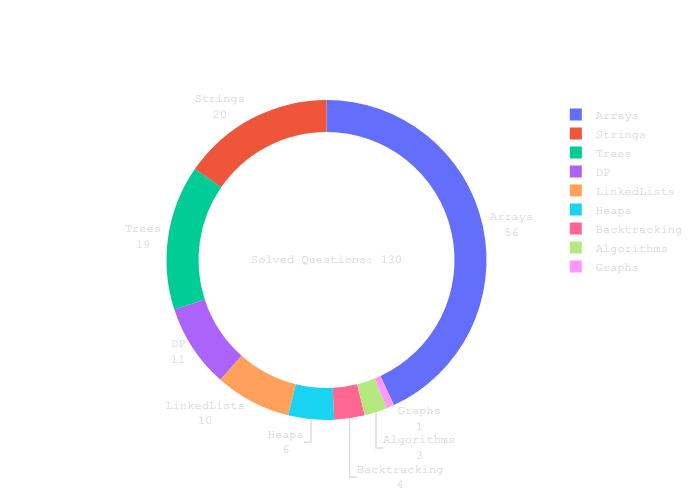
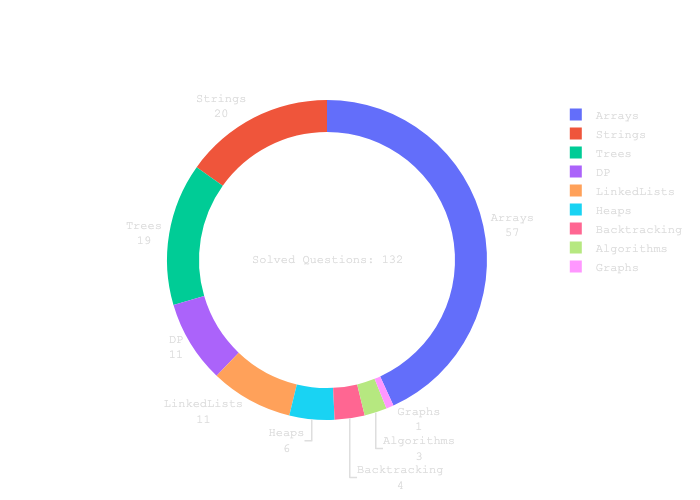
meeting rooms

diff --git a/LinkedLists/mergeSortedLists.py b/LinkedLists/mergeSortedLists.py
@@ -1,0 +1,45 @@
+from typing import Optional
+from utils.ListNode import ListNode, generateList
+
+
+def mergeTwoLists(
+    list1: Optional[ListNode], list2: Optional[ListNode]
+) -> Optional[ListNode]:
+    if not list1 and not list2:
+        return None
+    if not list1 or not list2:
+        return list1 if list1 else list2
+
+    head = list1 if list1.val <= list2.val else list2
+    if head == list1:
+        list1 = list1.next
+    else:
+        list2 = list2.next
+    tail = head
+
+    while list1 and list2:
+        if list1.val > list2.val:
+            tail.next = list2
+            list2 = list2.next
+        else:
+            tail.next = list1
+            list1 = list1.next
+        tail = tail.next
+
+    if list1:
+        tail.next = list1
+    if list2:
+        tail.next = list2
+
+    return head
+
+
+l1 = generateList([1, 2, 4])
+l2 = generateList([1, 3, 4])
+print(mergeTwoLists(l1, l2))
+l1 = generateList([1, 2])
+l2 = generateList([1, 3, 4])
+print(mergeTwoLists(l1, l2))
+l1 = generateList([1, 2, 3])
+l2 = generateList([1, 3])
+print(mergeTwoLists(l1, l2))

diff --git a/Arrays/meetingRooms.py b/Arrays/meetingRooms.py
@@ -1,9 +1,28 @@
 from typing import List
+from heapq import heappush, heappop
 
 
-def minMeetingRooms(intervals: List[List[int]]) -> int:
-    return 0
+def minMeetingRoomsII(intervals: List[List[int]]) -> int:
+    N = len(intervals)
+    minRooms = 0
+    if N == 0:
+        return minRooms
+
+    intervals.sort()
+    heap = []
+    for interval in intervals:
+        start, end = interval
+        if not heap:
+            heappush(heap, end)
+        else:
+            while heap and start >= heap[0]:
+                heappop(heap)
+            heappush(heap, end)
+        print(heap)
+        minRooms = max(minRooms, len(heap))
+    return minRooms
 
 
-print(minMeetingRooms([[0, 30], [5, 10], [15, 20]]))
-print(minMeetingRooms([[7, 10], [2, 4]]))
+print(minMeetingRoomsII([[0, 30], [5, 10], [15, 20]]))
+print(minMeetingRoomsII([[5, 30], [10, 25], [15, 25], [20, 45]]))
+print(minMeetingRoomsII([[7, 10], [2, 4]]))

diff --git a/Arrays/largestOutlier.py b/Arrays/largestOutlier.py
@@ -1,0 +1,21 @@
+from typing import List
+from collections import Counter
+
+
+def getLargestOutlier(nums: List[int]) -> int:
+    total = sum(nums)
+    d = Counter(nums)
+    outlier = -(10**10)
+
+    for num in nums:
+        d[num] -= 1
+        total -= num
+        if total % 2 == 0 and d[total // 2] > 0:
+            outlier = max(outlier, num)
+
+        d[num] += 1
+        total += num
+    return outlier
+
+
+print(getLargestOutlier([2, 3, 5, 10]))
